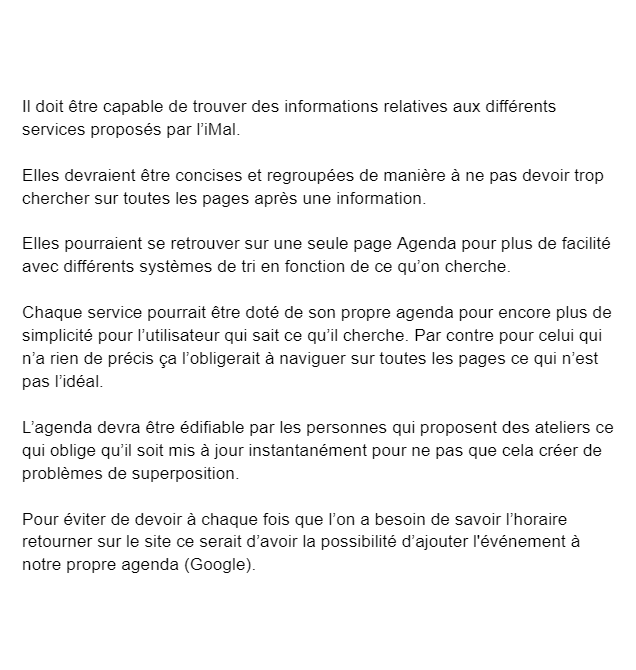
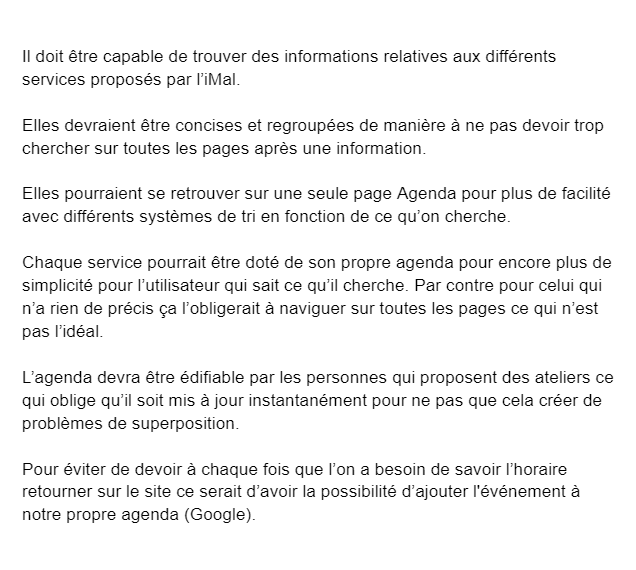
Avcmnt Layout Mobile

Changed region(s): [[0.0299, 0.0895, 0.956, 0.4175], [0.0299, 0.6263, 0.956, 0.9246], [0.0299, 0.4474, 0.956, 0.5965]]

diff --git a/src/index.html b/src/index.html
@@ -115,56 +115,96 @@
                 <p class="besoin__el besoin__el--1p">Après nous être penchés sur les tests, nous nous sommes mis en mode groupe de discussion sur le thème des besoins utilisateurs. Nous avons tout d’abord établi trois profils d’utilisateurs du site de l’i<span class="small-caps">MAL</span>.</p>
                 <p class="besoin__el besoin__el--2p">A partir de ces trois profils, on a discuté pour lister leurs potentiels besoins qu’ils désiraient retrouver à travers notre&nbsp;fonctionnalité.</p>
                 <figure class="besoin__el besoin__el--figure figure">
-                    <img src="assets/images/besoin_utili.png" srcset="" alt="Les besoins utilisateur auquels on a pensé">
+                    <img src="assets/images/besoin_utili.png" srcset="assets/images/besoin_utili@2x.png 2x" alt="Les besoins utilisateur auquels on a pensé">
                     <figcaption class="figcaption">Les besoins utilisateur auquels on a pensés</figcaption>
                 </figure>
             </section>
-             <!--<section class="horizon" id="hrz">
-                <h3 class="title title--trois">Un tour d’horizon</h3>
-                <p class="p1">Une fois la tâche choisie et expliquée en groupe, la partie individuelle pointe le bout de son nez. En effet, chacun de notre côté, nous avons réalisé un audit pour voir ce que faisaient les autres dans la consultation d’horaire en notant à la fois les points positifs et négatifs des fonctionnalités présentes.</p>
-                <figure class="figure1"> 
-                  <img src="assets/images/kikk.jpg" srcset="assets/images/kikk@2x.jpg 2x" alt="Screenshot de la fonctionnalité agenda du KIKK">
-                  <figcaption>Fonctionnalité agenda du KIKK</figcaption>
+             <section class="horizon" id="hrz">
+                <h3 class="horizon__el horizon__el--h3 title title--trois">Un tour d’horizon</h3>
+                <p class="horizon__el horizon__el--1p">Une fois la tâche choisie et expliquée en groupe, la partie individuelle pointe le bout de son nez. En effet, chacun de notre côté, nous avons réalisé un audit pour voir ce que faisaient les autres dans la consultation d’horaire en notant à la fois les points positifs et négatifs des fonctionnalités présentes.</p>
+                <figure class="horizon__el horizon__el--1figure figure"> 
+                  <img src="assets/images/kikk.png" srcset="assets/images/kikk@2x.png 2x" alt="Screenshot de la fonctionnalité agenda du KIKK">
+                  <figcaption class="figcaption">Fonctionnalités agenda du KIKK</figcaption>
                 </figure>
-                <figure class="figure2">
+                <figure class="horizon__el horizon__el--2figure figure">
                   <img src="assets/images/pdf2_kikk.jpg" srcset="assets/images/pdf2_kikk@2x.jpg 2x" alt="Screenshot de l'agenda pdf du KIKK">
-                  <figcaption>Agenda PDF du KIKK</figcaption>
+                  <figcaption class="figcaption">Agenda PDF du KIKK</figcaption>
                 </figure>
-                <figure class="figure3">
-                  <img src="assets/images/extranet.jpg" srcset="assets/images/extranet@2x.jpg 2x" alt="Screenshot de la fonctionnalité agenda de l’extranet de l'HEAJ">
-                  <figcaption>Fonctionnalité agenda de l’extranet de l’HEAJ</figcaption>
+                <h4 class="horizon__el horizon__el--1h4 title title--quatre">Avantages&hairsp;:</h4>
+                <ul class="horizon__el horizon__el--1ul points">
+                  <li class="points--li">Format électronique et disponible sans connexion</li>
+                  <li class="points--li">Impression</li>
+                  <li class="points--li">Vue d’ensemble sur le programme</li>
+                </ul>
+                <h4 class="horizon__el horizon__el--2h4 title title--quatre">Inconvénients&hairsp;:</h4>
+                <ul class="horizon__el horizon__el--2ul points">
+                  <li class="points--li">Inadapté pour quelques choses de quotidien et qui ne peut être modifiable</li>
+                </ul>
+                <figure class="horizon__el horizon__el--3figure figure">
+                  <img src="assets/images/extranet.png" srcset="assets/images/extranet@2x.png 2x" alt="Screenshot de la fonctionnalité agenda de l’extranet de l'HEAJ">
+                  <figcaption class="figcaption">Fonctionnalités agenda de l’extranet de l’<span class="small-caps">heaj</span></figcaption>
                 </figure>
-                <figure class="figure4">
-                  <img src="assets/images/aft.jpg" srcset="assets/images/aft@2x.jpg 2x" alt="Screenshot de fonctionnalités de l’AFT">
-                  <figcaption>Fonctionnalité de l’AFT</figcaption>
+                <h4 class="horizon__el horizon__el--3h4 title title--quatre">Avantages&hairsp;:</h4>
+                <ul class="horizon__el horizon__el--3ul points">
+                  <li class="points--li">(1) Permet de ne pas devoir à chaque fois retourner sur le site pour consulter l’horaire</li>
+                  <li class="points--li">(1) Disponible hors connexion</li>
+                  <li class="points--li">(2) Permet de se projeter</li>
+                  <li class="points--li">(2) Permet d’organiser des ateliers (Organisateur d’ateliers)</li>
+                  <li class="points--li">(3) Permet de voir la disponibilité en plus des plages horaires, la place dans les locaux.</li>
+                </ul>
+                <h4 class="horizon__el horizon__el--4h4 title title--quatre">Inconvénients&hairsp;:</h4>
+                <ul class="horizon__el horizon__el--4ul points">
+                  <li class="points--li">(1,3) Ne se synchronise pas en temps réel</li>
+                  <li class="points--li">(2) Impossible de consulter après une certaines périodes le calendrier</li>
+                </ul>
+                <figure class="horizon__el horizon__el--4figure figure">
+                  <img src="assets/images/aft.png" srcset="assets/images/aft@2x.png 2x" alt="Screenshot de fonctionnalités de l’AFT">
+                  <figcaption class="figcaption">Fonctionnalités de l’AFT</figcaption>
                 </figure>
-                <figure class="figure5">
-                  <img src="assets/images/livescore.jpg" srcset="assets/images/livescore@2x.jpg 2x" alt="Screenshot de fonctionnalités de Livescore">
-                  <figcaption>Fonctionnalité de Livescore</figcaption>
+                <h4 class="horizon__el horizon__el--5h4 title title--quatre">Avantages&hairsp;:</h4>
+                <ul class="horizon__el horizon__el--5ul points">
+                  <li class="points--li">Précision de la recherche</li>
+                </ul>
+                <h4 class="horizon__el horizon__el--6h4 title title--quatre">Inconvénients&hairsp;:</h4>
+                <ul class="horizon__el horizon__el--6ul points">
+                  <li class="points--li">L’information doit être bien&nbsp;classée</li>
+                </ul>
+                <figure class="horizon__el horizon__el--5figure figure">
+                  <img src="assets/images/livescore.png" srcset="assets/images/livescore@2x.png 2x" alt="Screenshot de fonctionnalités de Livescore">
+                  <figcaption class="figcaption">Fonctionnalités de Livescore</figcaption>
                 </figure>
+                <h4 class="horizon__el horizon__el--7h4 title title--quatre">Avantages&hairsp;:</h4>
+                <ul class="horizon__el horizon__el--7ul points">
+                  <li class="points--li">Précision de la recherche</li>
+                </ul>
+                <h4 class="horizon__el horizon__el--8h4 title title--quatre">Inconvénients&hairsp;:</h4>
+                <ul class="horizon__el horizon__el--8ul points">
+                  <li class="points--li">L’information doit être bien&nbsp;classée</li>
+                </ul>
+                <p class="horizon__el horizon__el--2p">Tous ces exemples m’ont permis de faire évoluer mes idées de fonctionnalitées afin de ne pas commettre les mêmes erreurs.</p>
             </section>
             <section class="croquis" id="cro">
-              <h3 class="title title--trois">Croquis</h3>
-              <p class="p1">Maintenant que je sais ce que les autres ont fait, j’ai fait 2/3 croquis de comment j’imagine ma fonctionnalité pour desktop.</p>
-              <figure class="figure1">
+              <h3 class="croquis__el croquis__el--h3 title title--trois">Croquis</h3>
+              <p class="croquis__el croquis__el--1p">Maintenant que je sais ce que les autres ont fait, j’ai fait 2/3 croquis de comment j’imagine ma fonctionnalité pour desktop.</p>
+              <figure class="croquis__el croquis__el--1figure figure">
                 <img src="assets/images/croquis1.jpg" srcset="assets/images/croquis1@2x.jpg 2x" alt="Croquis général">
-                <figcaption>Croquis général</figcaption>
+                <figcaption class="figcaption">Croquis général</figcaption>
               </figure>
-              <p class="p2">Pour moi, la 1ere chose qu’il fallait y retrouver, c'était un système de tri. Qui dit tri dit différents points. Je les ai tous repris&hairsp;: ateliers, évènements, résidences, fabrésidences et expositions.</p>
-              <p class="p3">Ensuite, le 2eme élément à laquelle j’ai pensé, ce sont deux boutons. Un bouton qui sert à ajouter vos événements à votre propre agenda personnel. L’autre sert uniquement aux créateurs d’atelier afin de planifier un de leurs ateliers à l’agenda.</p>
-              <p class="p4">Le 3eme élément s’avère indispensable, elle consiste en la mise en forme du calendrier, sous quel format je souhaite l’afficher. Je suis parti avec le format 3 jours détaillés. Avec la flèche, on peut évidemment aller voir plus loin que les trois premiers jours affichés.</p>
-              <figure class="figure2">
+              <p class="croquis__el croquis__el--2p">Pour moi, la 1ère chose qu’il fallait y retrouver, c'était un système de tri. Qui dit tri dit différents points. Je les ai tous repris&hairsp;: ateliers, évènements, résidences, fabrésidences et expositions.</p>
+              <p class="croquis__el croquis__el--3p">Ensuite, le 2ème élément à laquelle j’ai pensé, ce sont deux boutons. Un bouton qui sert à ajouter vos événements à votre propre agenda personnel. L’autre sert uniquement aux créateurs d’atelier afin de planifier un de leurs ateliers à&nbsp;l’agenda.</p>
+              <p class="croquis__el croquis__el--4p">Le 3ème élément s’avère indispensable, elle consiste en la mise en forme du calendrier, sous quel format je souhaite l’afficher. Je suis parti avec le format 3 jours détaillés. Avec la flèche, on peut évidemment aller voir plus loin que les trois premiers jours affichés.</p>
+              <figure class="croquis__el croquis__el--2figure figure">
                 <img src="assets/images/croquis2.jpg" srcset="assets/images/croquis2@2x.jpg 2x" alt="Croquis focus bouton Ajouter à l’agenda">
-                <figcaption>Croquis focus bouton &laquo;&hairsp;Ajouter à l’agenda&hairsp;&raquo;</figcaption>
+                <figcaption class="figcaption">Croquis focus bouton &laquo;&hairsp;Ajouter à l’agenda&hairsp;&raquo;</figcaption>
               </figure>
-              <p class="p5">Pour aller un peu plus loin, on va détailler quelques points. Concernant le bouton &laquo;&hairsp;Ajouter à votre agenda&hairsp;&raquo;, chaque événement dispose d’un petit &laquo;&hairsp;+&hairsp;&raquo; qui l’ajoute à ce bouton comme un panier lors de vos achats en ligne. Lorsque vous cliquez sur le bouton &laquo;&hairsp;Ajouter à Agenda&hairsp;&raquo;, cela n’ajoute que votre sélection.</p>
-              <figure class="figure3">
+              <!-- <p class="croquis__el croquis__el--5p">Pour aller un peu plus loin, on va détailler quelques points. Concernant le bouton &laquo;&hairsp;Ajouter à votre agenda&hairsp;&raquo;, chaque événement dispose d’un petit &laquo;&hairsp;+&hairsp;&raquo; qui l’ajoute à ce bouton comme un panier lors de vos achats en ligne. Lorsque vous cliquez sur le bouton &laquo;&hairsp;Ajouter à Agenda&hairsp;&raquo;, cela n’ajoute que votre sélection.</p>
+              <figure class="croquis__el croquis__el--3figure figure">
                 <img src="assets/images/croquis3.jpg" srcset="assets/images/croquis3@2x.jpg 2x" alt="Croquis focus système de tri">
-                <figcaption>Croquis focus système de tri</figcaption>
+                <figcaption class="figcaption">Croquis focus système de tri</figcaption>
               </figure>
-              <p class="p6">Concernant le tri des différents services proposés par l’i<span class="small-caps">MAL</span>, les éléments qui sont pourvus de sous menus sont déroulables afin d’améliorer la précision de la&nbsp;recherche.</p>
-            </section>
-            <section class="user" id="usj">
+              <p class="croquis__el croquis__el--6p">Concernant le tri des différents services proposés par l’i<span class="small-caps">MAL</span>, les éléments qui sont pourvus de sous menus sont déroulables afin d’améliorer la précision de la&nbsp;recherche.</p>
+            </section> -->
+            <!--<section class="user" id="usj">
               <h3 class="title title--trois">Les User Journey</h3>
               <p class="p1">Tout d’abord, une brève explication de ce que sont les &ldquo;User Journey&rdquo;. Ce sont des scénarios mis en place pour essayer de couvrir le plus de cas possibles, des situations potentielles rencontrées par les utilisateurs lors de leur passage sur notre fonctionnalité.</p>
               <figure>

diff --git a/src/assets/sass/_grid.scss b/src/assets/sass/_grid.scss
@@ -90,16 +90,16 @@
             grid-column: 2/-1;
         }
         &--1h4{
-            grid-row: 7/8;
+            grid-row: 6/7;
         }
         &--1ul{
-            grid-row: 8/16;
+            grid-row: 7/15;
         }
         &--2h4{
-            grid-row: 17/18;
+            grid-row: 16/17;
         }
         &--2ul{
-            grid-row: 18/23;
+            grid-row: 17/22;
         }
     }
 }
@@ -178,7 +178,124 @@
         }
         &--figure{
             grid-column: 1/-1;
-            grid-row: 19/32;
+            grid-row: 19/31;
+        }
+    }
+}
+.horizon{
+    grid-column: 2/8;
+    grid-row: 186;
+    &__el{
+        grid-column: 1/-1;
+        &--h3{
+            grid-row: 1/3;
+        }
+        &--1p{
+            grid-row: 4/12;
+        }
+        &--1figure{
+            grid-row: 14/21;
+        }
+        &--2figure{
+            grid-row: 23/35;
+        }
+        &--1h4,&--1ul,&--4h4,&--4ul,&--5h4,&--5ul,&--8h4,&--8ul{
+            grid-column: 2/-1;
+        }
+        &--1h4{
+            grid-row: 37/38;
+        }
+        &--1ul{
+            grid-row: 38/47;
+        }
+        &--2h4,&--2ul,&--3h4,&--3ul{
+            grid-column: 1/8;
+        }
+        &--2h4{
+            grid-row: 48/49;
+        }
+        &--2ul{
+            grid-row: 49/54;
+        }
+        &--3figure{
+            grid-row: 57/63;
+        }
+        &--3h4{
+            grid-row: 65/66;
+        }
+        &--3ul{
+            grid-row: 66/84;
+        }
+        &--4h4{
+            grid-row: 84/85;
+        }
+        &--4ul{
+            grid-row: 85/93;
+        }
+        &--4figure{
+            grid-row: 96/109;
+        }
+        &--5h4{
+            grid-row: 111/112;
+        }
+        &--5ul{
+            grid-row: 112/114;
+        }
+        &--6h4{
+            grid-row: 115/116;
+        }
+        &--6ul{
+            grid-row: 116/120;
+        }
+        &--5figure{
+            grid-row: 123/129;
+        }
+        &--7h4{
+            grid-row: 131/132;
+        }
+        &--7ul{
+            grid-row: 132/135;
+        }
+        &--8h4{
+            grid-row: 136/137;
+        }
+        &--8ul{
+            grid-row: 137/141;
+        }
+        &--2p{
+            grid-row: 143/145;
+        }
+    }
+}
+.croquis{
+    grid-column: 2/8;
+    grid-row: 335;
+    &__el{
+        grid-column: 1/-1;
+        &--h3{
+            grid-row: 1/3;
+        }
+        &--1p{
+            grid-column: 1/8;
+            grid-row: 4/8;
+        }
+        &--1figure{
+            grid-row: 10/19;
+        }
+        &--2p,&--3p,&--4p{
+            grid-column: 2/-1;
+        }
+        &--2p{
+            grid-row: 20/26;
+        }
+        &--3p{
+            grid-row: 27/35;
+        }
+        &--4p{
+            grid-row: 36/44;
+        }
+        &--2figure{
+            grid-row: 47/55;
         }
     }
 }

diff --git a/src/assets/sass/_layout.scss b/src/assets/sass/_layout.scss
@@ -179,13 +179,22 @@ section{
 .figure{
     display: flex;
     flex-direction: column;
-    background-color: v.$color-one;
     margin: 0;
-    outline: 9px solid v.$color-one;
+    img{
+        border: 4px solid v.$color-one;
+    }
 }
 .figcaption{
     padding: 12.5px 0;
     font-size: v.$size-caption;
     font-style: italic;
     text-align: center;
+    background-color: v.$color-one;
+}
+.horizon{
+    &__el{
+        &--2p{
+            font-style: italic;
+        }
+    }
 }
